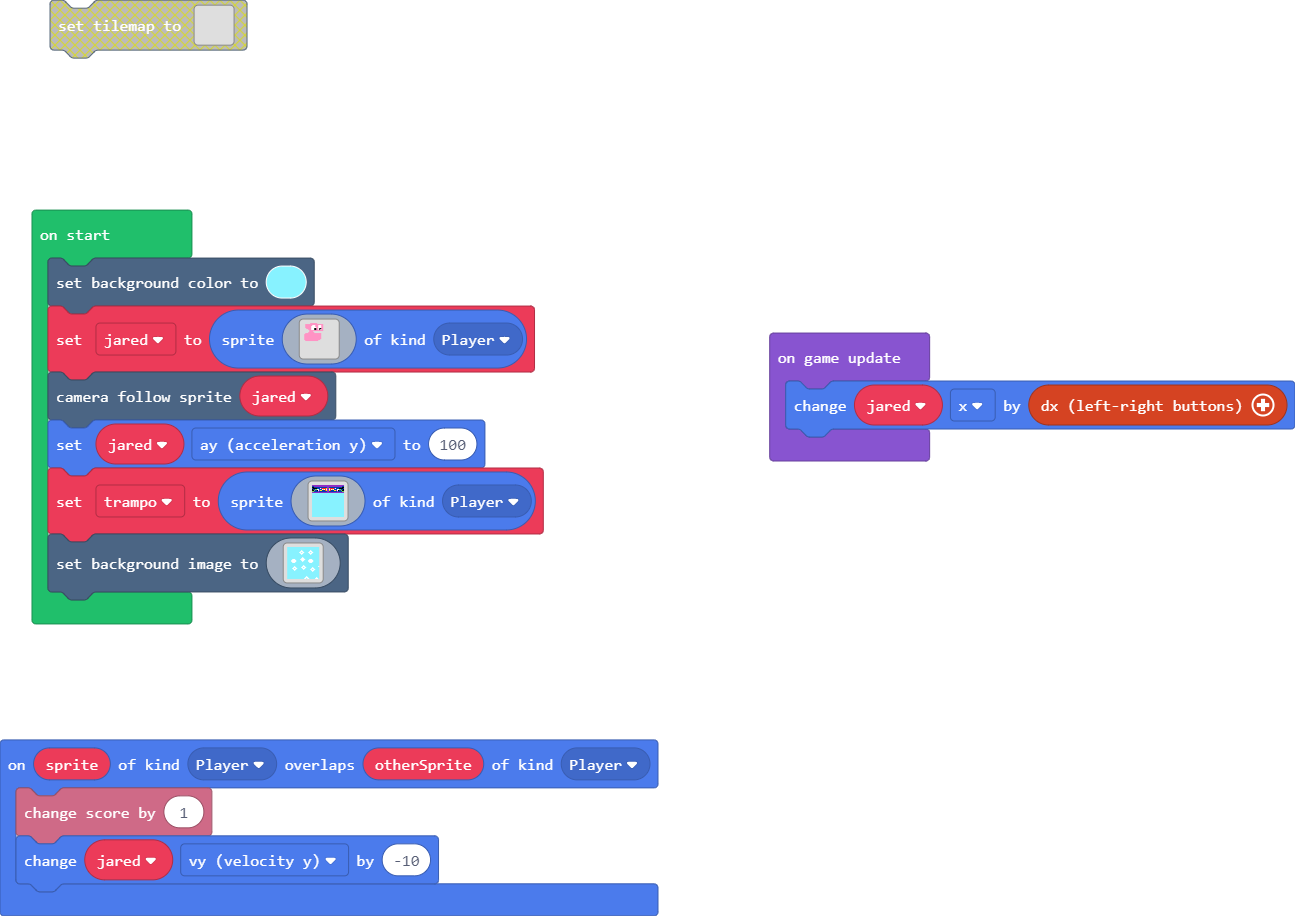
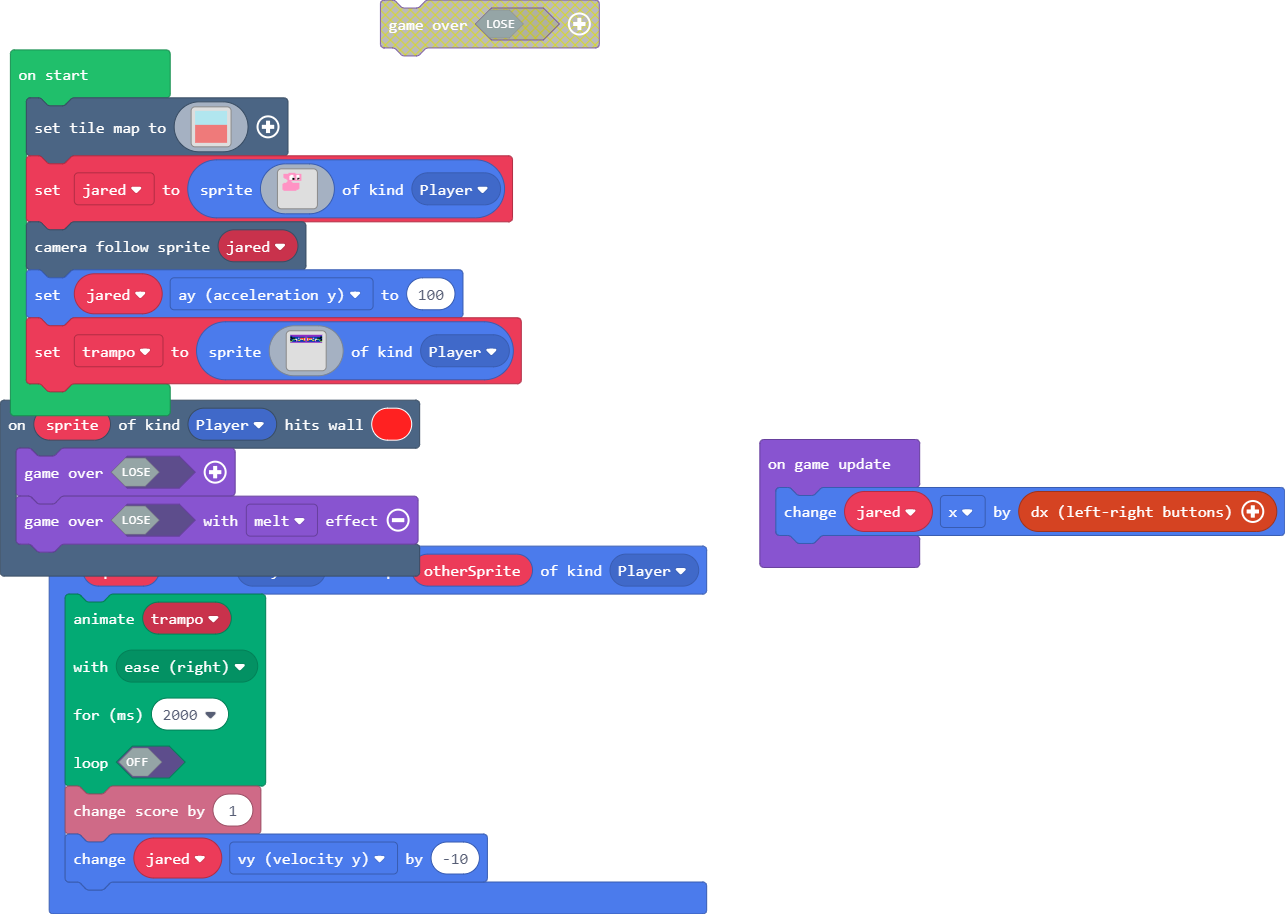
Update pxt.json, main.blocks, main.ts

diff --git a/main.ts b/main.ts
@@ -1,12 +1,109 @@
 namespace SpriteKind {
     export const object = SpriteKind.create()
 }
+namespace myTiles {
+    //% blockIdentity=images._tile
+    export const tile0 = img`
+. . . . . . . . . . . . . . . . 
+. . . . . . . . . . . . . . . . 
+. . . . . . . . . . . . . . . . 
+. . . . . . . . . . . . . . . . 
+. . . . . . . . . . . . . . . . 
+. . . . . . . . . . . . . . . . 
+. . . . . . . . . . . . . . . . 
+. . . . . . . . . . . . . . . . 
+. . . . . . . . . . . . . . . . 
+. . . . . . . . . . . . . . . . 
+. . . . . . . . . . . . . . . . 
+. . . . . . . . . . . . . . . . 
+. . . . . . . . . . . . . . . . 
+. . . . . . . . . . . . . . . . 
+. . . . . . . . . . . . . . . . 
+. . . . . . . . . . . . . . . . 
+`
+}
+scene.onHitTile(SpriteKind.Player, 2, function (sprite) {
+    game.over(false)
+    game.over(false, effects.melt)
+})
 sprites.onOverlap(SpriteKind.Player, SpriteKind.Player, function (sprite, otherSprite) {
+    animation.runMovementAnimation(
+    trampo,
+    animation.animationPresets(animation.easeRight),
+    2000,
+    false
+    )
     info.changeScoreBy(1)
     jared.vy += -10
 })
+let trampo: Sprite = null
 let jared: Sprite = null
-scene.setBackgroundColor(9)
+scene.setTileMap(img`
+9 9 9 9 9 9 9 9 9 9 9 9 9 9 9 9 9 9 9 9 9 9 9 9 9 9 9 9 9 9 9 9 9 9 9 9 9 9 9 9 9 9 9 9 9 9 9 9 9 9 9 9 9 9 9 9 9 9 9 9 9 9 9 9 
+9 9 9 9 9 9 9 9 9 9 9 9 9 9 9 9 9 9 9 9 9 9 9 9 9 9 9 9 9 9 9 9 9 9 9 9 9 9 9 9 9 9 9 9 9 9 9 9 9 9 9 9 9 9 9 9 9 9 9 9 9 9 9 9 
+9 9 9 9 9 9 9 9 9 9 9 9 9 9 9 9 9 9 9 9 9 9 9 9 9 9 9 9 9 9 9 9 9 9 9 9 9 9 9 9 9 9 9 9 9 9 9 9 9 9 9 9 9 9 9 9 9 9 9 9 9 9 9 9 
+9 9 9 9 9 9 9 9 9 9 9 9 9 9 9 9 9 9 9 9 9 9 9 9 9 9 9 9 9 9 9 9 9 9 9 9 9 9 9 9 9 9 9 9 9 9 9 9 9 9 9 9 9 9 9 9 9 9 9 9 9 9 9 9 
+9 9 9 9 9 9 9 9 9 9 9 9 9 9 9 9 9 9 9 9 9 9 9 9 9 9 9 9 9 9 9 9 9 9 9 9 9 9 9 9 9 9 9 9 9 9 9 9 9 9 9 9 9 9 9 9 9 9 9 9 9 9 9 9 
+9 9 9 9 9 9 9 9 9 9 9 9 9 9 9 9 9 9 9 9 9 9 9 9 9 9 9 9 9 9 9 9 9 9 9 9 9 9 9 9 9 9 9 9 9 9 9 9 9 9 9 9 9 9 9 9 9 9 9 9 9 9 9 9 
+9 9 9 9 9 9 9 9 9 9 9 9 9 9 9 9 9 9 9 9 9 9 9 9 9 9 9 9 9 9 9 9 9 9 9 9 9 9 9 9 9 9 9 9 9 9 9 9 9 9 9 9 9 9 9 9 9 9 9 9 9 9 9 9 
+9 9 9 9 9 9 9 9 9 9 9 9 9 9 9 9 9 9 9 9 9 9 9 9 9 9 9 9 9 9 9 9 9 9 9 9 9 9 9 9 9 9 9 9 9 9 9 9 9 9 9 9 9 9 9 9 9 9 9 9 9 9 9 9 
+9 9 9 9 9 9 9 9 9 9 9 9 9 9 9 9 9 9 9 9 9 9 9 9 9 9 9 9 9 9 9 9 9 9 9 9 9 9 9 9 9 9 9 9 9 9 9 9 9 9 9 9 9 9 9 9 9 9 9 9 9 9 9 9 
+9 9 9 9 9 9 9 9 9 9 9 9 9 9 9 9 9 9 9 9 9 9 9 9 9 9 9 9 9 9 9 9 9 9 9 9 9 9 9 9 9 9 9 9 9 9 9 9 9 9 9 9 9 9 9 9 9 9 9 9 9 9 9 9 
+9 9 9 9 9 9 9 9 9 9 9 9 9 9 9 9 9 9 9 9 9 9 9 9 9 9 9 9 9 9 9 9 9 9 9 9 9 9 9 9 9 9 9 9 9 9 9 9 9 9 9 9 9 9 9 9 9 9 9 9 9 9 9 9 
+9 9 9 9 9 9 9 9 9 9 9 9 9 9 9 9 9 9 9 9 9 9 9 9 9 9 9 9 9 9 9 9 9 9 9 9 9 9 9 9 9 9 9 9 9 9 9 9 9 9 9 9 9 9 9 9 9 9 9 9 9 9 9 9 
+9 9 9 9 9 9 9 9 9 9 9 9 9 9 9 9 9 9 9 9 9 9 9 9 9 9 9 9 9 9 9 9 9 9 9 9 9 9 9 9 9 9 9 9 9 9 9 9 9 9 9 9 9 9 9 9 9 9 9 9 9 9 9 9 
+9 9 9 9 9 9 9 9 9 9 9 9 9 9 9 9 9 9 9 9 9 9 9 9 9 9 9 9 9 9 9 9 9 9 9 9 9 9 9 9 9 9 9 9 9 9 9 9 9 9 9 9 9 9 9 9 9 9 9 9 9 9 9 9 
+9 9 9 9 9 9 9 9 9 9 9 9 9 9 9 9 9 9 9 9 9 9 9 9 9 9 9 9 9 9 9 9 9 9 9 9 9 9 9 9 9 9 9 9 9 9 9 9 9 9 9 9 9 9 9 9 9 9 9 9 9 9 9 9 
+9 9 9 9 9 9 9 9 9 9 9 9 9 9 9 9 9 9 9 9 9 9 9 9 9 9 9 9 9 9 9 9 9 9 9 9 9 9 9 9 9 9 9 9 9 9 9 9 9 9 9 9 9 9 9 9 9 9 9 9 9 9 9 9 
+9 9 9 9 9 9 9 9 9 9 9 9 9 9 9 9 9 9 9 9 9 9 9 9 9 9 9 9 9 9 9 9 9 9 9 9 9 9 9 9 9 9 9 9 9 9 9 9 9 9 9 9 9 9 9 9 9 9 9 9 9 9 9 9 
+9 9 9 9 9 9 9 9 9 9 9 9 9 9 9 9 9 9 9 9 9 9 9 9 9 9 9 9 9 9 9 9 9 9 9 9 9 9 9 9 9 9 9 9 9 9 9 9 9 9 9 9 9 9 9 9 9 9 9 9 9 9 9 9 
+9 9 9 9 9 9 9 9 9 9 9 9 9 9 9 9 9 9 9 9 9 9 9 9 9 9 9 9 9 9 9 9 9 9 9 9 9 9 9 9 9 9 9 9 9 9 9 9 9 9 9 9 9 9 9 9 9 9 9 9 9 9 9 9 
+9 9 9 9 9 9 9 9 9 9 9 9 9 9 9 9 9 9 9 9 9 9 9 9 9 9 9 9 9 9 9 9 9 9 9 9 9 9 9 9 9 9 9 9 9 9 9 9 9 9 9 9 9 9 9 9 9 9 9 9 9 9 9 9 
+9 9 9 9 9 9 9 9 9 9 9 9 9 9 9 9 9 9 9 9 9 9 9 9 9 9 9 9 9 9 9 9 9 9 9 9 9 9 9 9 9 9 9 9 9 9 9 9 9 9 9 9 9 9 9 9 9 9 9 9 9 9 9 9 
+9 9 9 9 9 9 9 9 9 9 9 9 9 9 9 9 9 9 9 9 9 9 9 9 9 9 9 9 9 9 9 9 9 9 9 9 9 9 9 9 9 9 9 9 9 9 9 9 9 9 9 9 9 9 9 9 9 9 9 9 9 9 9 9 
+9 9 9 9 9 9 9 9 9 9 9 9 9 9 9 9 9 9 9 9 9 9 9 9 9 9 9 9 9 9 9 9 9 9 9 9 9 9 9 9 9 9 9 9 9 9 9 9 9 9 9 9 9 9 9 9 9 9 9 9 9 9 9 9 
+9 9 9 9 9 9 9 9 9 9 9 9 9 9 9 9 9 9 9 9 9 9 9 9 9 9 9 9 9 9 9 9 9 9 9 9 9 9 9 9 9 9 9 9 9 9 9 9 9 9 9 9 9 9 9 9 9 9 9 9 9 9 9 9 
+9 9 9 9 9 9 9 9 9 9 9 9 9 9 9 9 9 9 9 9 9 9 9 9 9 9 9 9 9 9 9 9 9 9 9 9 9 9 9 9 9 9 9 9 9 9 9 9 9 9 9 9 9 9 9 9 9 9 9 9 9 9 9 9 
+9 9 9 9 9 9 9 9 9 9 9 9 9 9 9 9 9 9 9 9 9 9 9 9 9 9 9 9 9 9 9 9 9 9 9 9 9 9 9 9 9 9 9 9 9 9 9 9 9 9 9 9 9 9 9 9 9 9 9 9 9 9 9 9 
+9 9 9 9 9 9 9 9 9 9 9 9 9 9 9 9 9 9 9 9 9 9 9 9 9 9 9 9 9 9 9 9 9 9 9 9 9 9 9 9 9 9 9 9 9 9 9 9 9 9 9 9 9 9 9 9 9 9 9 9 9 9 9 9 
+9 9 9 9 9 9 9 9 9 9 9 9 9 9 9 9 9 9 9 9 9 9 9 9 9 9 9 9 9 9 9 9 9 9 9 9 9 9 9 9 9 9 9 9 9 9 9 9 9 9 9 9 9 9 9 9 9 9 9 9 9 9 9 9 
+2 2 2 2 2 2 2 2 2 2 2 2 2 2 2 2 2 2 2 2 2 2 2 2 2 2 2 2 2 2 2 2 2 2 2 2 2 2 2 2 2 2 2 2 2 2 2 2 2 2 2 2 2 2 2 2 2 2 2 2 2 2 2 2 
+2 2 2 2 2 2 2 2 2 2 2 2 2 2 2 2 2 2 2 2 2 2 2 2 2 2 2 2 2 2 2 2 2 2 2 2 2 2 2 2 2 2 2 2 2 2 2 2 2 2 2 2 2 2 2 2 2 2 2 2 2 2 2 2 
+2 2 2 2 2 2 2 2 2 2 2 2 2 2 2 2 2 2 2 2 2 2 2 2 2 2 2 2 2 2 2 2 2 2 2 2 2 2 2 2 2 2 2 2 2 2 2 2 2 2 2 2 2 2 2 2 2 2 2 2 2 2 2 2 
+2 2 2 2 2 2 2 2 2 2 2 2 2 2 2 2 2 2 2 2 2 2 2 2 2 2 2 2 2 2 2 2 2 2 2 2 2 2 2 2 2 2 2 2 2 2 2 2 2 2 2 2 2 2 2 2 2 2 2 2 2 2 2 2 
+2 2 2 2 2 2 2 2 2 2 2 2 2 2 2 2 2 2 2 2 2 2 2 2 2 2 2 2 2 2 2 2 2 2 2 2 2 2 2 2 2 2 2 2 2 2 2 2 2 2 2 2 2 2 2 2 2 2 2 2 2 2 2 2 
+2 2 2 2 2 2 2 2 2 2 2 2 2 2 2 2 2 2 2 2 2 2 2 2 2 2 2 2 2 2 2 2 2 2 2 2 2 2 2 2 2 2 2 2 2 2 2 2 2 2 2 2 2 2 2 2 2 2 2 2 2 2 2 2 
+2 2 2 2 2 2 2 2 2 2 2 2 2 2 2 2 2 2 2 2 2 2 2 2 2 2 2 2 2 2 2 2 2 2 2 2 2 2 2 2 2 2 2 2 2 2 2 2 2 2 2 2 2 2 2 2 2 2 2 2 2 2 2 2 
+2 2 2 2 2 2 2 2 2 2 2 2 2 2 2 2 2 2 2 2 2 2 2 2 2 2 2 2 2 2 2 2 2 2 2 2 2 2 2 2 2 2 2 2 2 2 2 2 2 2 2 2 2 2 2 2 2 2 2 2 2 2 2 2 
+2 2 2 2 2 2 2 2 2 2 2 2 2 2 2 2 2 2 2 2 2 2 2 2 2 2 2 2 2 2 2 2 2 2 2 2 2 2 2 2 2 2 2 2 2 2 2 2 2 2 2 2 2 2 2 2 2 2 2 2 2 2 2 2 
+2 2 2 2 2 2 2 2 2 2 2 2 2 2 2 2 2 2 2 2 2 2 2 2 2 2 2 2 2 2 2 2 2 2 2 2 2 2 2 2 2 2 2 2 2 2 2 2 2 2 2 2 2 2 2 2 2 2 2 2 2 2 2 2 
+2 2 2 2 2 2 2 2 2 2 2 2 2 2 2 2 2 2 2 2 2 2 2 2 2 2 2 2 2 2 2 2 2 2 2 2 2 2 2 2 2 2 2 2 2 2 2 2 2 2 2 2 2 2 2 2 2 2 2 2 2 2 2 2 
+2 2 2 2 2 2 2 2 2 2 2 2 2 2 2 2 2 2 2 2 2 2 2 2 2 2 2 2 2 2 2 2 2 2 2 2 2 2 2 2 2 2 2 2 2 2 2 2 2 2 2 2 2 2 2 2 2 2 2 2 2 2 2 2 
+2 2 2 2 2 2 2 2 2 2 2 2 2 2 2 2 2 2 2 2 2 2 2 2 2 2 2 2 2 2 2 2 2 2 2 2 2 2 2 2 2 2 2 2 2 2 2 2 2 2 2 2 2 2 2 2 2 2 2 2 2 2 2 2 
+2 2 2 2 2 2 2 2 2 2 2 2 2 2 2 2 2 2 2 2 2 2 2 2 2 2 2 2 2 2 2 2 2 2 2 2 2 2 2 2 2 2 2 2 2 2 2 2 2 2 2 2 2 2 2 2 2 2 2 2 2 2 2 2 
+2 2 2 2 2 2 2 2 2 2 2 2 2 2 2 2 2 2 2 2 2 2 2 2 2 2 2 2 2 2 2 2 2 2 2 2 2 2 2 2 2 2 2 2 2 2 2 2 2 2 2 2 2 2 2 2 2 2 2 2 2 2 2 2 
+2 2 2 2 2 2 2 2 2 2 2 2 2 2 2 2 2 2 2 2 2 2 2 2 2 2 2 2 2 2 2 2 2 2 2 2 2 2 2 2 2 2 2 2 2 2 2 2 2 2 2 2 2 2 2 2 2 2 2 2 2 2 2 2 
+2 2 2 2 2 2 2 2 2 2 2 2 2 2 2 2 2 2 2 2 2 2 2 2 2 2 2 2 2 2 2 2 2 2 2 2 2 2 2 2 2 2 2 2 2 2 2 2 2 2 2 2 2 2 2 2 2 2 2 2 2 2 2 2 
+2 2 2 2 2 2 2 2 2 2 2 2 2 2 2 2 2 2 2 2 2 2 2 2 2 2 2 2 2 2 2 2 2 2 2 2 2 2 2 2 2 2 2 2 2 2 2 2 2 2 2 2 2 2 2 2 2 2 2 2 2 2 2 2 
+2 2 2 2 2 2 2 2 2 2 2 2 2 2 2 2 2 2 2 2 2 2 2 2 2 2 2 2 2 2 2 2 2 2 2 2 2 2 2 2 2 2 2 2 2 2 2 2 2 2 2 2 2 2 2 2 2 2 2 2 2 2 2 2 
+2 2 2 2 2 2 2 2 2 2 2 2 2 2 2 2 2 2 2 2 2 2 2 2 2 2 2 2 2 2 2 2 2 2 2 2 2 2 2 2 2 2 2 2 2 2 2 2 2 2 2 2 2 2 2 2 2 2 2 2 2 2 2 2 
+2 2 2 2 2 2 2 2 2 2 2 2 2 2 2 2 2 2 2 2 2 2 2 2 2 2 2 2 2 2 2 2 2 2 2 2 2 2 2 2 2 2 2 2 2 2 2 2 2 2 2 2 2 2 2 2 2 2 2 2 2 2 2 2 
+2 2 2 2 2 2 2 2 2 2 2 2 2 2 2 2 2 2 2 2 2 2 2 2 2 2 2 2 2 2 2 2 2 2 2 2 2 2 2 2 2 2 2 2 2 2 2 2 2 2 2 2 2 2 2 2 2 2 2 2 2 2 2 2 
+2 2 2 2 2 2 2 2 2 2 2 2 2 2 2 2 2 2 2 2 2 2 2 2 2 2 2 2 2 2 2 2 2 2 2 2 2 2 2 2 2 2 2 2 2 2 2 2 2 2 2 2 2 2 2 2 2 2 2 2 2 2 2 2 
+2 2 2 2 2 2 2 2 2 2 2 2 2 2 2 2 2 2 2 2 2 2 2 2 2 2 2 2 2 2 2 2 2 2 2 2 2 2 2 2 2 2 2 2 2 2 2 2 2 2 2 2 2 2 2 2 2 2 2 2 2 2 2 2 
+2 2 2 2 2 2 2 2 2 2 2 2 2 2 2 2 2 2 2 2 2 2 2 2 2 2 2 2 2 2 2 2 2 2 2 2 2 2 2 2 2 2 2 2 2 2 2 2 2 2 2 2 2 2 2 2 2 2 2 2 2 2 2 2 
+2 2 2 2 2 2 2 2 2 2 2 2 2 2 2 2 2 2 2 2 2 2 2 2 2 2 2 2 2 2 2 2 2 2 2 2 2 2 2 2 2 2 2 2 2 2 2 2 2 2 2 2 2 2 2 2 2 2 2 2 2 2 2 2 
+2 2 2 2 2 2 2 2 2 2 2 2 2 2 2 2 2 2 2 2 2 2 2 2 2 2 2 2 2 2 2 2 2 2 2 2 2 2 2 2 2 2 2 2 2 2 2 2 2 2 2 2 2 2 2 2 2 2 2 2 2 2 2 2 
+2 2 2 2 2 2 2 2 2 2 2 2 2 2 2 2 2 2 2 2 2 2 2 2 2 2 2 2 2 2 2 2 2 2 2 2 2 2 2 2 2 2 2 2 2 2 2 2 2 2 2 2 2 2 2 2 2 2 2 2 2 2 2 2 
+2 2 2 2 2 2 2 2 2 2 2 2 2 2 2 2 2 2 2 2 2 2 2 2 2 2 2 2 2 2 2 2 2 2 2 2 2 2 2 2 2 2 2 2 2 2 2 2 2 2 2 2 2 2 2 2 2 2 2 2 2 2 2 2 
+2 2 2 2 2 2 2 2 2 2 2 2 2 2 2 2 2 2 2 2 2 2 2 2 2 2 2 2 2 2 2 2 2 2 2 2 2 2 2 2 2 2 2 2 2 2 2 2 2 2 2 2 2 2 2 2 2 2 2 2 2 2 2 2 
+2 2 2 2 2 2 2 2 2 2 2 2 2 2 2 2 2 2 2 2 2 2 2 2 2 2 2 2 2 2 2 2 2 2 2 2 2 2 2 2 2 2 2 2 2 2 2 2 2 2 2 2 2 2 2 2 2 2 2 2 2 2 2 2 
+2 2 2 2 2 2 2 2 2 2 2 2 2 2 2 2 2 2 2 2 2 2 2 2 2 2 2 2 2 2 2 2 2 2 2 2 2 2 2 2 2 2 2 2 2 2 2 2 2 2 2 2 2 2 2 2 2 2 2 2 2 2 2 2 
+2 2 2 2 2 2 2 2 2 2 2 2 2 2 2 2 2 2 2 2 2 2 2 2 2 2 2 2 2 2 2 2 2 2 2 2 2 2 2 2 2 2 2 2 2 2 2 2 2 2 2 2 2 2 2 2 2 2 2 2 2 2 2 2 
+2 2 2 2 2 2 2 2 2 2 2 2 2 2 2 2 2 2 2 2 2 2 2 2 2 2 2 2 2 2 2 2 2 2 2 2 2 2 2 2 2 2 2 2 2 2 2 2 2 2 2 2 2 2 2 2 2 2 2 2 2 2 2 2 
+2 2 2 2 2 2 2 2 2 2 2 2 2 2 2 2 2 2 2 2 2 2 2 2 2 2 2 2 2 2 2 2 2 2 2 2 2 2 2 2 2 2 2 2 2 2 2 2 2 2 2 2 2 2 2 2 2 2 2 2 2 2 2 2 
+2 2 2 2 2 2 2 2 2 2 2 2 2 2 2 2 2 2 2 2 2 2 2 2 2 2 2 2 2 2 2 2 2 2 2 2 2 2 2 2 2 2 2 2 2 2 2 2 2 2 2 2 2 2 2 2 2 2 2 2 2 2 2 2 
+`)
 jared = sprites.create(img`
 . . . . . . . 3 3 3 3 3 3 3 . . . . . . . . . . . . . . . . . . 
 . . 3 3 3 3 3 3 3 3 3 3 3 3 3 3 3 3 3 3 . . . . . . . . . . . . 
@@ -43,7 +140,7 @@ jared = sprites.create(img`
 `, SpriteKind.Player)
 scene.cameraFollowSprite(jared)
 jared.ay = 100
-let trampo = sprites.create(img`
+trampo = sprites.create(img`
 a a a a a a a a a a a a a a a a a a a a a a a a a a a a a a a a 
 8 8 a a a a a a a a a a a a a a a a a a a a a a a a a a a a 8 8 
 f f 8 8 8 8 8 8 8 8 8 8 8 8 8 a a 8 8 8 8 8 8 8 8 8 8 8 8 8 f f 
@@ -52,65 +149,31 @@ f 8 8 7 7 1 1 8 8 8 1 5 1 2 1 a a 1 2 1 5 1 8 8 8 1 1 7 7 8 8 f
 f f 7 8 8 f 1 a 5 5 8 8 8 2 5 a a 5 2 8 8 8 5 5 a 1 f 8 8 7 f f 
 7 7 8 8 8 8 a 8 8 8 8 8 8 8 8 a a 8 8 8 8 8 8 8 8 a 8 8 8 8 7 7 
 a a a a a a a a a a a a a a a a a a a a a a a a a a a a a a a a 
-9 9 9 9 9 9 9 9 9 9 9 9 9 9 9 9 9 9 9 9 9 9 9 9 9 9 9 9 9 9 9 9 
-9 9 9 9 9 9 9 9 9 9 9 9 9 9 9 9 9 9 9 9 9 9 9 9 9 9 9 9 9 9 9 9 
-9 9 9 9 9 9 9 9 9 9 9 9 9 9 9 9 9 9 9 9 9 9 9 9 9 9 9 9 9 9 9 9 
-9 9 9 9 9 9 9 9 9 9 9 9 9 9 9 9 9 9 9 9 9 9 9 9 9 9 9 9 9 9 9 9 
-9 9 9 9 9 9 9 9 9 9 9 9 9 9 9 9 9 9 9 9 9 9 9 9 9 9 9 9 9 9 9 9 
-9 9 9 9 9 9 9 9 9 9 9 9 9 9 9 9 9 9 9 9 9 9 9 9 9 9 9 9 9 9 9 9 
-9 9 9 9 9 9 9 9 9 9 9 9 9 9 9 9 9 9 9 9 9 9 9 9 9 9 9 9 9 9 9 9 
-9 9 9 9 9 9 9 9 9 9 9 9 9 9 9 9 9 9 9 9 9 9 9 9 9 9 9 9 9 9 9 9 
-9 9 9 9 9 9 9 9 9 9 9 9 9 9 9 9 9 9 9 9 9 9 9 9 9 9 9 9 9 9 9 9 
-9 9 9 9 9 9 9 9 9 9 9 9 9 9 9 9 9 9 9 9 9 9 9 9 9 9 9 9 9 9 9 9 
-9 9 9 9 9 9 9 9 9 9 9 9 9 9 9 9 9 9 9 9 9 9 9 9 9 9 9 9 9 9 9 9 
-9 9 9 9 9 9 9 9 9 9 9 9 9 9 9 9 9 9 9 9 9 9 9 9 9 9 9 9 9 9 9 9 
-9 9 9 9 9 9 9 9 9 9 9 9 9 9 9 9 9 9 9 9 9 9 9 9 9 9 9 9 9 9 9 9 
-9 9 9 9 9 9 9 9 9 9 9 9 9 9 9 9 9 9 9 9 9 9 9 9 9 9 9 9 9 9 9 9 
-9 9 9 9 9 9 9 9 9 9 9 9 9 9 9 9 9 9 9 9 9 9 9 9 9 9 9 9 9 9 9 9 
-9 9 9 9 9 9 9 9 9 9 9 9 9 9 9 9 9 9 9 9 9 9 9 9 9 9 9 9 9 9 9 9 
-9 9 9 9 9 9 9 9 9 9 9 9 9 9 9 9 9 9 9 9 9 9 9 9 9 9 9 9 9 9 9 9 
-9 9 9 9 9 9 9 9 9 9 9 9 9 9 9 9 9 9 9 9 9 9 9 9 9 9 9 9 9 9 9 9 
-9 9 9 9 9 9 9 9 9 9 9 9 9 9 9 9 9 9 9 9 9 9 9 9 9 9 9 9 9 9 9 9 
-9 9 9 9 9 9 9 9 9 9 9 9 9 9 9 9 9 9 9 9 9 9 9 9 9 9 9 9 9 9 9 9 
-9 9 9 9 9 9 9 9 9 9 9 9 9 9 9 9 9 9 9 9 9 9 9 9 9 9 9 9 9 9 9 9 
-9 9 9 9 9 9 9 9 9 9 9 9 9 9 9 9 9 9 9 9 9 9 9 9 9 9 9 9 9 9 9 9 
-9 9 9 9 9 9 9 9 9 9 9 9 9 9 9 9 9 9 9 9 9 9 9 9 9 9 9 9 9 9 9 9 
-9 9 9 9 9 9 9 9 9 9 9 9 9 9 9 9 9 9 9 9 9 9 9 9 9 9 9 9 9 9 9 9 
+. . . . . . . . . . . . . . . . . . . . . . . . . . . . . . . . 
+. . . . . . . . . . . . . . . . . . . . . . . . . . . . . . . . 
+. . . . . . . . . . . . . . . . . . . . . . . . . . . . . . . . 
+. . . . . . . . . . . . . . . . . . . . . . . . . . . . . . . . 
+. . . . . . . . . . . . . . . . . . . . . . . . . . . . . . . . 
+. . . . . . . . . . . . . . . . . . . . . . . . . . . . . . . . 
+. . . . . . . . . . . . . . . . . . . . . . . . . . . . . . . . 
+. . . . . . . . . . . . . . . . . . . . . . . . . . . . . . . . 
+. . . . . . . . . . . . . . . . . . . . . . . . . . . . . . . . 
+. . . . . . . . . . . . . . . . . . . . . . . . . . . . . . . . 
+. . . . . . . . . . . . . . . . . . . . . . . . . . . . . . . . 
+. . . . . . . . . . . . . . . . . . . . . . . . . . . . . . . . 
+. . . . . . . . . . . . . . . . . . . . . . . . . . . . . . . . 
+. . . . . . . . . . . . . . . . . . . . . . . . . . . . . . . . 
+. . . . . . . . . . . . . . . . . . . . . . . . . . . . . . . . 
+. . . . . . . . . . . . . . . . . . . . . . . . . . . . . . . . 
+. . . . . . . . . . . . . . . . . . . . . . . . . . . . . . . . 
+. . . . . . . . . . . . . . . . . . . . . . . . . . . . . . . . 
+. . . . . . . . . . . . . . . . . . . . . . . . . . . . . . . . 
+. . . . . . . . . . . . . . . . . . . . . . . . . . . . . . . . 
+. . . . . . . . . . . . . . . . . . . . . . . . . . . . . . . . 
+. . . . . . . . . . . . . . . . . . . . . . . . . . . . . . . . 
+. . . . . . . . . . . . . . . . . . . . . . . . . . . . . . . . 
+. . . . . . . . . . . . . . . . . . . . . . . . . . . . . . . . 
 `, SpriteKind.Player)
-scene.setBackgroundImage(img`
-9 9 9 9 9 9 9 9 9 9 9 9 9 9 9 9 9 9 9 9 9 9 9 9 9 9 9 9 9 9 9 9 
-9 9 9 9 9 9 9 9 9 9 9 9 9 9 9 9 9 9 9 9 9 9 9 9 9 9 9 9 9 9 9 9 
-9 9 9 9 9 9 9 9 9 9 9 9 9 9 9 9 9 9 9 9 9 9 9 9 9 9 9 9 9 9 9 9 
-9 9 9 9 9 9 9 9 9 9 9 9 9 9 1 9 9 9 9 9 9 9 9 1 9 9 9 9 9 9 9 9 
-9 9 9 9 9 9 9 9 9 9 9 9 9 1 1 1 9 9 9 9 9 9 1 1 1 9 9 9 9 9 9 9 
-9 9 9 9 9 9 9 9 9 9 9 9 1 1 9 1 1 9 9 9 9 1 1 9 1 1 9 9 9 9 9 9 
-9 9 9 9 9 9 9 9 9 9 9 9 9 1 1 1 9 9 9 9 9 9 1 1 1 9 9 9 9 9 9 9 
-9 9 9 9 9 9 9 9 9 9 9 9 9 9 1 9 9 9 9 9 9 9 9 1 9 9 9 9 9 9 9 9 
-9 9 9 9 9 9 9 9 9 9 9 9 9 9 9 9 9 9 9 9 9 9 9 9 9 9 9 9 9 9 9 9 
-9 9 9 9 9 9 9 9 9 9 9 9 9 9 9 9 9 9 9 9 9 9 9 9 9 9 9 9 9 9 9 9 
-9 9 9 9 9 9 9 9 9 9 9 9 9 9 9 1 9 9 9 9 9 9 9 9 9 9 9 9 9 9 9 9 
-9 9 9 9 9 9 9 9 9 9 9 9 9 9 1 1 1 9 9 9 9 9 9 9 9 9 9 9 9 9 9 9 
-9 9 9 9 9 1 1 1 9 9 9 9 9 1 1 1 1 1 9 9 9 9 1 1 1 9 9 9 9 9 9 9 
-9 9 9 9 1 1 1 1 1 9 9 9 9 9 1 1 1 9 9 9 9 1 1 1 1 1 9 9 9 9 9 9 
-9 9 9 9 1 1 1 1 1 9 9 9 9 9 9 1 9 9 9 9 9 1 1 1 1 1 9 9 9 9 9 9 
-9 9 9 9 9 1 1 1 9 9 9 9 9 9 9 9 9 9 9 9 9 9 1 1 1 9 9 9 9 9 9 9 
-9 9 9 9 9 9 9 9 9 9 9 9 9 9 9 9 9 9 9 9 9 9 9 9 9 9 9 9 9 9 9 9 
-9 9 9 9 9 9 9 9 9 9 9 9 9 9 9 9 9 9 9 9 9 9 9 9 9 9 9 9 9 9 9 9 
-9 9 9 9 9 9 9 9 9 9 9 9 9 9 9 9 1 9 9 9 9 9 9 9 9 9 9 9 9 9 9 9 
-9 9 9 9 9 9 9 1 9 9 9 9 9 9 9 1 1 1 9 9 9 9 9 9 9 9 9 9 9 9 9 1 
-9 9 9 9 9 9 1 1 1 9 9 9 9 9 1 1 9 1 1 9 9 9 9 9 9 1 9 9 9 9 9 9 
-9 9 9 9 9 1 1 9 1 1 9 9 9 9 9 1 1 1 9 9 9 9 9 9 1 1 1 9 9 9 9 9 
-9 9 9 9 9 9 1 1 1 9 9 9 9 9 9 9 1 9 9 9 9 9 9 1 1 9 1 1 9 9 9 9 
-9 9 9 9 9 9 9 1 9 9 9 9 9 9 9 9 9 9 9 9 9 9 9 9 1 1 1 9 9 9 9 9 
-9 9 9 9 9 9 9 9 9 9 9 9 9 9 9 9 9 9 9 9 9 9 9 9 9 1 9 9 9 9 9 9 
-9 9 9 9 9 9 9 9 9 9 9 9 9 9 9 9 9 9 9 9 9 9 9 9 9 9 9 9 9 9 9 9 
-9 9 9 9 9 9 9 9 9 9 9 9 9 9 9 9 9 9 9 9 9 9 9 9 9 9 9 9 9 9 9 9 
-9 9 9 9 9 9 9 9 9 9 9 9 9 9 9 9 9 9 9 9 9 9 9 9 9 9 9 9 9 9 9 9 
-9 9 9 9 9 9 9 9 9 9 9 9 9 9 9 9 9 9 9 9 9 9 9 9 9 9 9 9 9 9 9 9 
-9 9 9 9 9 9 9 9 9 9 9 9 9 9 9 9 9 9 9 1 9 9 9 9 9 9 9 9 9 9 9 9 
-9 9 9 9 9 9 9 9 9 9 9 9 9 9 9 9 9 9 1 1 1 9 9 9 9 9 9 9 9 1 9 9 
-9 9 9 9 9 9 9 9 9 9 9 9 9 9 9 9 9 1 1 9 1 1 9 9 9 9 9 9 1 1 1 9 
-`)
 game.onUpdate(function () {
     jared.x += controller.dx()
 })
